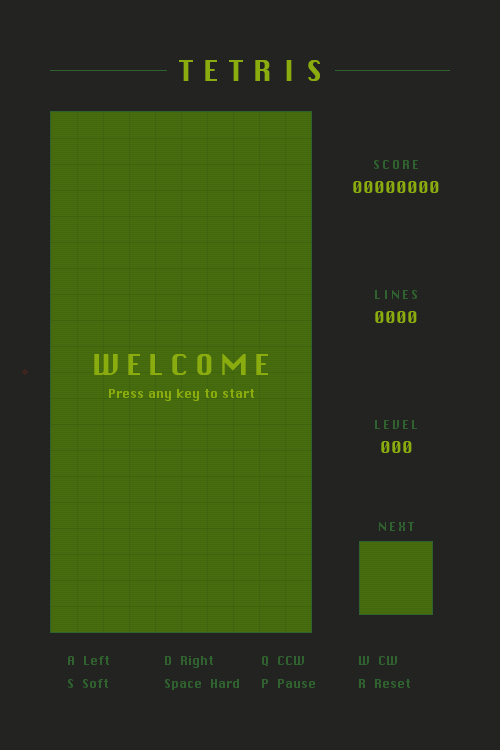
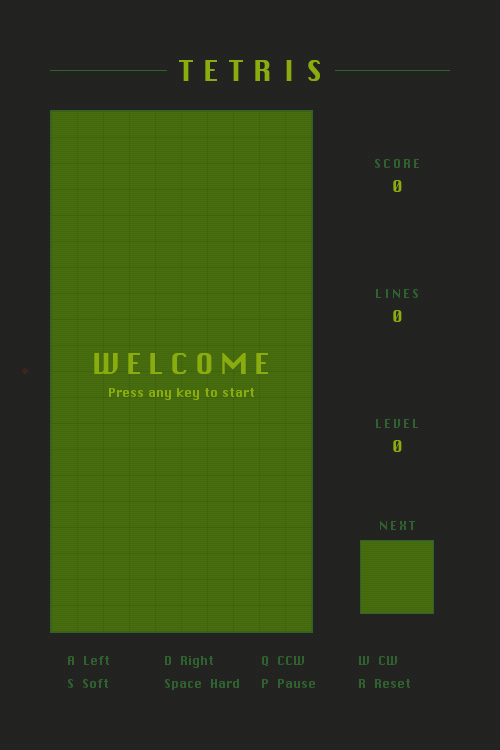
fix: center blocks in a closed grid and drop stat zero padding

diff --git a/tetris_ui.py b/tetris_ui.py
@@ -149,10 +149,11 @@ class TetrisUI:
 
     # Primitive drawing helpers.
     def _make_playfield_cell_rect(self, x: int, y: int) -> pygame.Rect:
+        # Grid lines eat each cell's first pixel; inset within the rest.
         return make_inset_rect(
-            self.playfield_rect.x + x * GAME_LAYOUT.grid_size,
-            self.playfield_rect.y + y * GAME_LAYOUT.grid_size,
-            GAME_LAYOUT.grid_size,
+            self.playfield_rect.x + x * GAME_LAYOUT.grid_size + 1,
+            self.playfield_rect.y + y * GAME_LAYOUT.grid_size + 1,
+            GAME_LAYOUT.grid_size - 1,
             GAME_LAYOUT.cell_inset,
         )
 
@@ -281,9 +282,9 @@ class TetrisUI:
             return slot_top + (section_height - height) // 2
 
         stats = (
-            ("SCORE", f"{self.score:08d}"),
-            ("LINES", f"{self.lines:04d}"),
-            ("LEVEL", f"{self.level:03d}"),
+            ("SCORE", str(self.score)),
+            ("LINES", str(self.lines)),
+            ("LEVEL", str(self.level)),
         )
         for index, (label, value) in enumerate(stats):
             label_surface = self._render_text_surface(
@@ -361,8 +362,8 @@ class TetrisUI:
     def _draw_playfield(self) -> None:
         pygame.draw.rect(self.screen, PALETTE["screen"], self.playfield_rect)
 
-        # Grid hairlines.
-        for x in range(1, GAME_LAYOUT.grid_width):
+        # Grid hairlines, closing on all four edges so every cell is bounded.
+        for x in range(GAME_LAYOUT.grid_width + 1):
             grid_line_x = self.playfield_rect.x + x * GAME_LAYOUT.grid_size
             pygame.draw.line(
                 self.screen,
@@ -371,7 +372,7 @@ class TetrisUI:
                 (grid_line_x, self.playfield_rect.bottom - 1),
                 1,
             )
-        for y in range(1, GAME_LAYOUT.grid_height):
+        for y in range(GAME_LAYOUT.grid_height + 1):
             grid_line_y = self.playfield_rect.y + y * GAME_LAYOUT.grid_size
             pygame.draw.line(
                 self.screen,

diff --git a/tetris_ui_helpers.py b/tetris_ui_helpers.py
@@ -13,7 +13,7 @@ TITLE_CENTER_Y = 70
 _MARGIN = 50
 # Playfield sits one pixel inside the margin; its hairline frame is the outer edge.
 _PLAYFIELD_LEFT = _MARGIN + GAME_LAYOUT.playfield_border_width
-_PLAYFIELD_TOP = 112
+_PLAYFIELD_TOP = 111
 _INFO_COLUMN_GAP = 32
 NEXT_CELL_SIZE = GAME_LAYOUT.grid_size // 2
 NEXT_CELL_INSET = 1
@@ -22,8 +22,9 @@ NEXT_BOX_SIZE = 4 * NEXT_CELL_SIZE + 2 * NEXT_BOX_PADDING
 
 
 def get_playfield_rect() -> pygame.Rect:
-    width = GAME_LAYOUT.grid_width * GAME_LAYOUT.grid_size
-    height = GAME_LAYOUT.grid_height * GAME_LAYOUT.grid_size
+    # One extra pixel for the closing grid line on the right/bottom edge.
+    width = GAME_LAYOUT.grid_width * GAME_LAYOUT.grid_size + 1
+    height = GAME_LAYOUT.grid_height * GAME_LAYOUT.grid_size + 1
     return pygame.Rect(_PLAYFIELD_LEFT, _PLAYFIELD_TOP, width, height)
 
 
